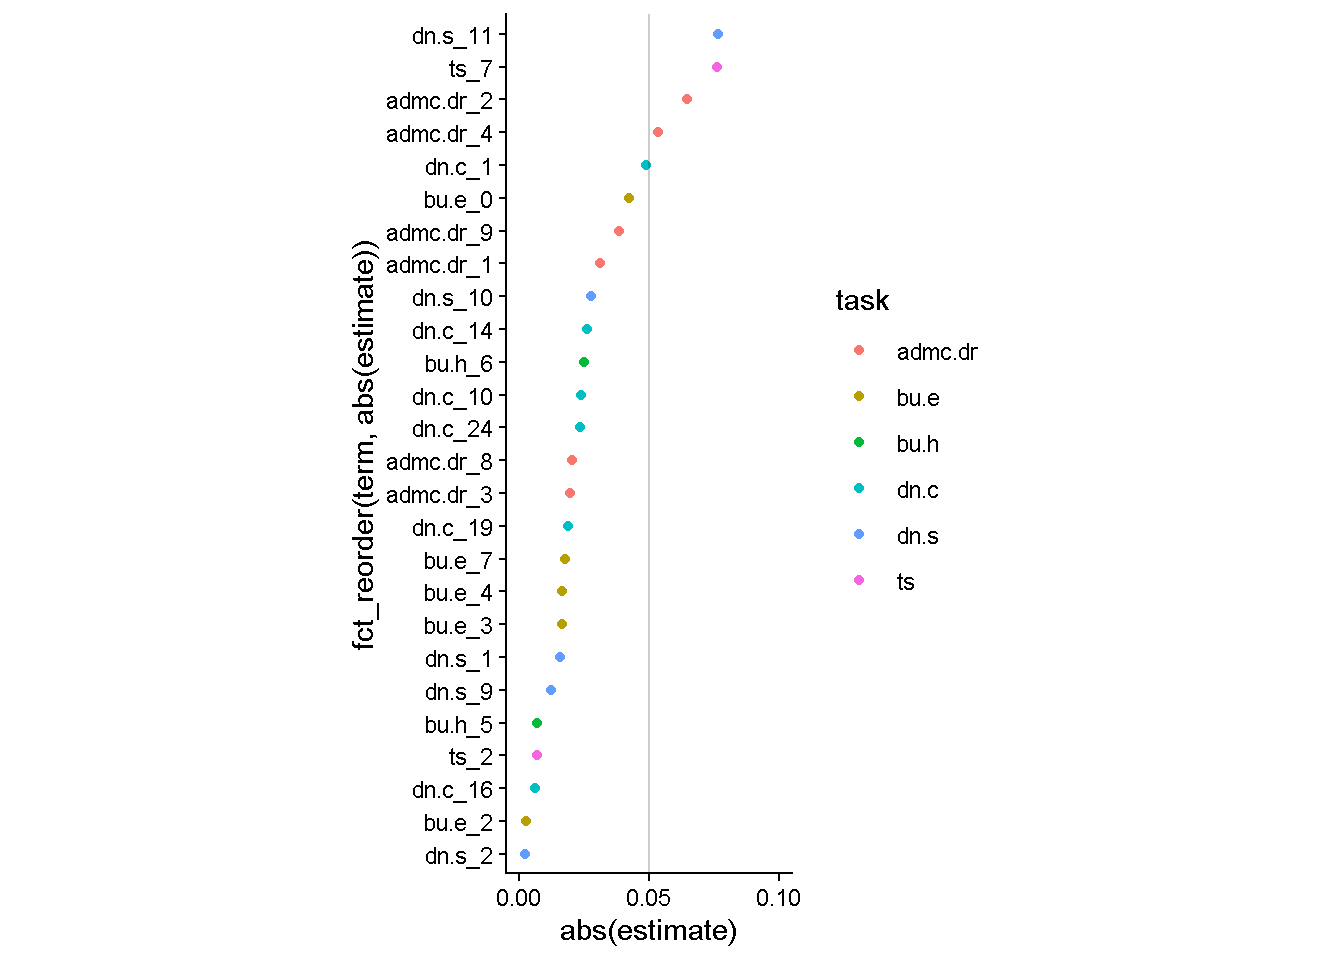
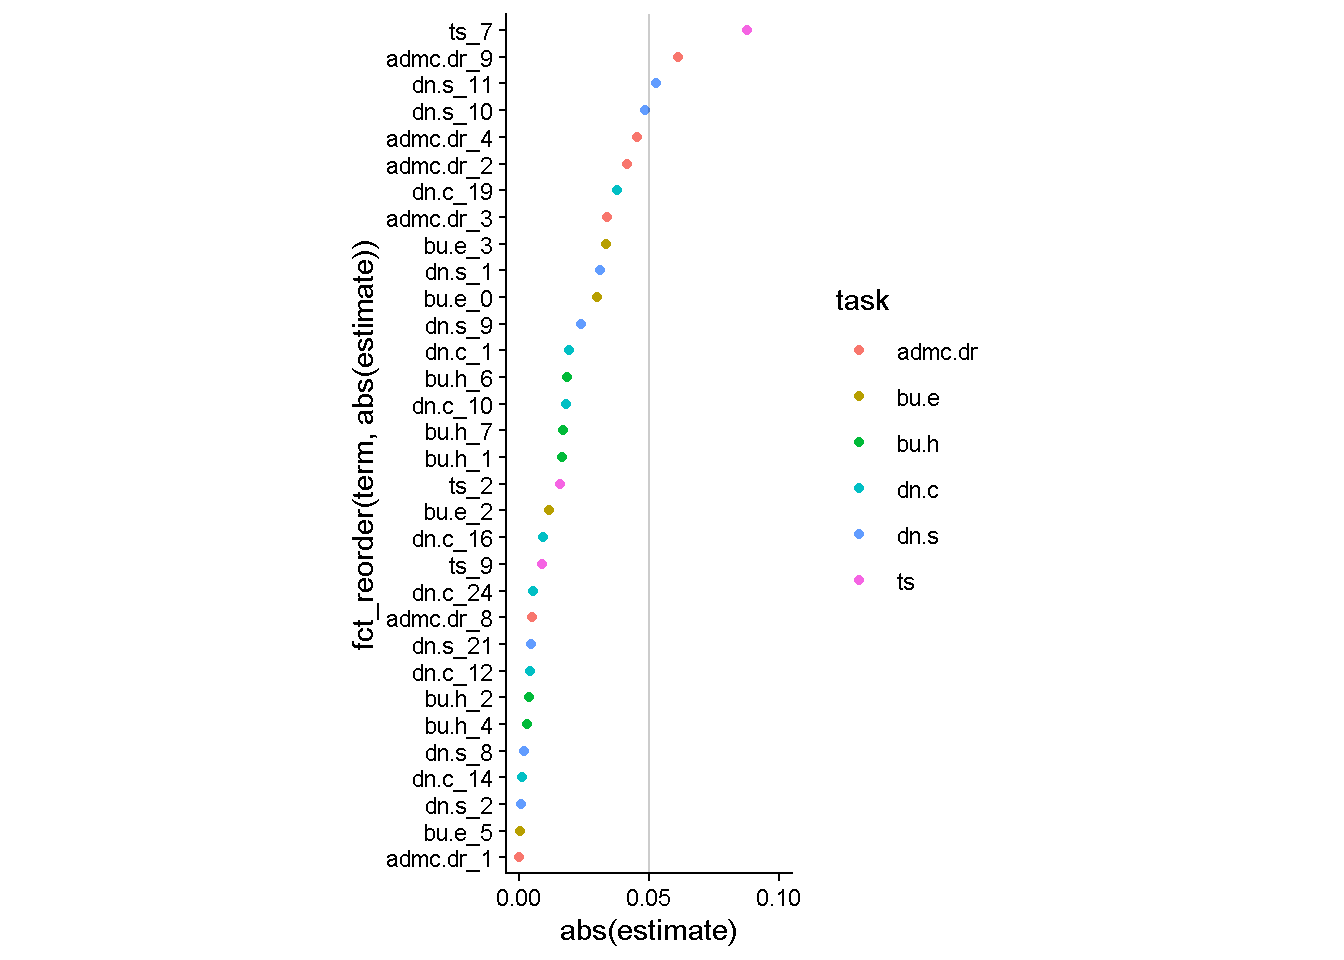
Add LASSO tuning

diff --git a/docs/Reports/lasso.html b/docs/Reports/lasso.html
@@ -7,7 +7,7 @@
 <meta name="viewport" content="width=device-width, initial-scale=1.0, user-scalable=yes">
 
 <meta name="author" content="Jessica Helmer">
-<meta name="dcterms.date" content="2026-02-28">
+<meta name="dcterms.date" content="2026-03-02">
 
 <title>LASSO Regression – Cognitive Task Modeling</title>
 <style>
@@ -242,7 +242,7 @@ pre > code.sourceCode > span > a:first-child::before { text-decoration: underlin
     <div>
     <div class="quarto-title-meta-heading">Published</div>
     <div class="quarto-title-meta-contents">
-      <p class="date">February 28, 2026</p>
+      <p class="date">March 2, 2026</p>
     </div>
   </div>
   
@@ -385,20 +385,20 @@ Attaching package: 'Matrix'</code></pre>
 <div class="sourceCode cell-code" id="cb15"><pre class="sourceCode r code-with-copy"><code class="sourceCode r"><span id="cb15-1"><a href="#cb15-1" aria-hidden="true" tabindex="-1"></a>lasso_estimates <span class="sc">|&gt;</span> <span class="fu">filter</span>(estimate <span class="sc">!=</span> <span class="dv">0</span> <span class="sc">&amp;</span> term <span class="sc">!=</span> <span class="st">"(Intercept)"</span>)</span></code><button title="Copy to Clipboard" class="code-copy-button"><i class="bi"></i></button></pre></div>
 </details>
 <div class="cell-output cell-output-stdout">
-<pre><code># A tibble: 26 × 3
-   term      estimate penalty
-   &lt;chr&gt;        &lt;dbl&gt;   &lt;dbl&gt;
- 1 dn.c_1    -0.0486      0.1
- 2 dn.c_16   -0.00607     0.1
- 3 dn.c_19   -0.0189      0.1
- 4 dn.c_10   -0.0236      0.1
- 5 dn.c_24   -0.0234      0.1
- 6 dn.c_14   -0.0263      0.1
- 7 bu.h_5     0.00702     0.1
- 8 bu.h_6     0.0248      0.1
- 9 admc.dr_1 -0.0309      0.1
-10 admc.dr_2 -0.0644      0.1
-# ℹ 16 more rows</code></pre>
+<pre><code># A tibble: 32 × 3
+   term    estimate penalty
+   &lt;chr&gt;      &lt;dbl&gt;   &lt;dbl&gt;
+ 1 dn.c_12 -0.00424     0.1
+ 2 dn.c_1  -0.0192      0.1
+ 3 dn.c_16 -0.00912     0.1
+ 4 dn.c_19 -0.0375      0.1
+ 5 dn.c_10 -0.0180      0.1
+ 6 dn.c_24 -0.00555     0.1
+ 7 dn.c_14 -0.00118     0.1
+ 8 bu.h_1   0.0164      0.1
+ 9 bu.h_2   0.00367     0.1
+10 bu.h_4   0.00305     0.1
+# ℹ 22 more rows</code></pre>
 </div>
 </div>
 <div class="cell">
@@ -440,7 +440,144 @@ Attaching package: 'Matrix'</code></pre>
 <pre><code># A tibble: 1 × 1
    time
   &lt;dbl&gt;
-1  18.0</code></pre>
+1  19.4</code></pre>
+</div>
+</div>
+<p>Trying some tuning</p>
+<div class="cell">
+<details class="code-fold">
+<summary>Code</summary>
+<div class="sourceCode cell-code" id="cb20"><pre class="sourceCode r code-with-copy"><code class="sourceCode r"><span id="cb20-1"><a href="#cb20-1" aria-hidden="true" tabindex="-1"></a>tune_spec <span class="ot">&lt;-</span> <span class="fu">linear_reg</span>(<span class="at">penalty =</span> <span class="fu">tune</span>(), <span class="at">mixture =</span> <span class="dv">1</span>) <span class="sc">%&gt;%</span></span>
+<span id="cb20-2"><a href="#cb20-2" aria-hidden="true" tabindex="-1"></a>  <span class="fu">set_engine</span>(<span class="st">"glmnet"</span>)</span></code><button title="Copy to Clipboard" class="code-copy-button"><i class="bi"></i></button></pre></div>
+</details>
+</div>
+<div class="cell">
+<details class="code-fold">
+<summary>Code</summary>
+<div class="sourceCode cell-code" id="cb21"><pre class="sourceCode r code-with-copy"><code class="sourceCode r"><span id="cb21-1"><a href="#cb21-1" aria-hidden="true" tabindex="-1"></a><span class="fu">set.seed</span>(<span class="dv">1234</span>)</span>
+<span id="cb21-2"><a href="#cb21-2" aria-hidden="true" tabindex="-1"></a>v5_dat_boot <span class="ot">&lt;-</span> <span class="fu">bootstraps</span>(v5_dat_train)</span>
+<span id="cb21-3"><a href="#cb21-3" aria-hidden="true" tabindex="-1"></a></span>
+<span id="cb21-4"><a href="#cb21-4" aria-hidden="true" tabindex="-1"></a>lambda_grid <span class="ot">&lt;-</span> <span class="fu">grid_regular</span>(<span class="fu">penalty</span>(), <span class="at">levels =</span> <span class="dv">50</span>)</span>
+<span id="cb21-5"><a href="#cb21-5" aria-hidden="true" tabindex="-1"></a></span>
+<span id="cb21-6"><a href="#cb21-6" aria-hidden="true" tabindex="-1"></a>doParallel<span class="sc">::</span><span class="fu">registerDoParallel</span>()</span>
+<span id="cb21-7"><a href="#cb21-7" aria-hidden="true" tabindex="-1"></a></span>
+<span id="cb21-8"><a href="#cb21-8" aria-hidden="true" tabindex="-1"></a><span class="fu">set.seed</span>(<span class="dv">2020</span>)</span>
+<span id="cb21-9"><a href="#cb21-9" aria-hidden="true" tabindex="-1"></a>lasso_grid <span class="ot">&lt;-</span> <span class="fu">tune_grid</span>(</span>
+<span id="cb21-10"><a href="#cb21-10" aria-hidden="true" tabindex="-1"></a>  wf <span class="sc">%&gt;%</span> <span class="fu">add_model</span>(tune_spec),</span>
+<span id="cb21-11"><a href="#cb21-11" aria-hidden="true" tabindex="-1"></a>  <span class="at">resamples =</span> v5_dat_boot,</span>
+<span id="cb21-12"><a href="#cb21-12" aria-hidden="true" tabindex="-1"></a>  <span class="at">grid =</span> lambda_grid</span>
+<span id="cb21-13"><a href="#cb21-13" aria-hidden="true" tabindex="-1"></a>)</span>
+<span id="cb21-14"><a href="#cb21-14" aria-hidden="true" tabindex="-1"></a></span>
+<span id="cb21-15"><a href="#cb21-15" aria-hidden="true" tabindex="-1"></a><span class="fu">saveRDS</span>(lasso_grid, here<span class="sc">::</span><span class="fu">here</span>(<span class="st">"Data"</span>, <span class="st">"lasso-estimates_tuning.rds"</span>))</span></code><button title="Copy to Clipboard" class="code-copy-button"><i class="bi"></i></button></pre></div>
+</details>
+</div>
+<div class="cell">
+<details class="code-fold">
+<summary>Code</summary>
+<div class="sourceCode cell-code" id="cb22"><pre class="sourceCode r code-with-copy"><code class="sourceCode r"><span id="cb22-1"><a href="#cb22-1" aria-hidden="true" tabindex="-1"></a>lasso_grid <span class="ot">&lt;-</span> <span class="fu">readRDS</span>(here<span class="sc">::</span><span class="fu">here</span>(<span class="st">"Data"</span>, <span class="st">"lasso-estimates_tuning.rds"</span>))</span>
+<span id="cb22-2"><a href="#cb22-2" aria-hidden="true" tabindex="-1"></a></span>
+<span id="cb22-3"><a href="#cb22-3" aria-hidden="true" tabindex="-1"></a>lasso_grid <span class="sc">%&gt;%</span></span>
+<span id="cb22-4"><a href="#cb22-4" aria-hidden="true" tabindex="-1"></a>  <span class="fu">collect_metrics</span>() <span class="sc">%&gt;%</span></span>
+<span id="cb22-5"><a href="#cb22-5" aria-hidden="true" tabindex="-1"></a>  <span class="fu">ggplot</span>(<span class="fu">aes</span>(penalty, mean, <span class="at">color =</span> .metric)) <span class="sc">+</span></span>
+<span id="cb22-6"><a href="#cb22-6" aria-hidden="true" tabindex="-1"></a>  <span class="fu">geom_errorbar</span>(<span class="fu">aes</span>(</span>
+<span id="cb22-7"><a href="#cb22-7" aria-hidden="true" tabindex="-1"></a>    <span class="at">ymin =</span> mean <span class="sc">-</span> std_err,</span>
+<span id="cb22-8"><a href="#cb22-8" aria-hidden="true" tabindex="-1"></a>    <span class="at">ymax =</span> mean <span class="sc">+</span> std_err</span>
+<span id="cb22-9"><a href="#cb22-9" aria-hidden="true" tabindex="-1"></a>  ),</span>
+<span id="cb22-10"><a href="#cb22-10" aria-hidden="true" tabindex="-1"></a>  <span class="at">alpha =</span> <span class="fl">0.5</span></span>
+<span id="cb22-11"><a href="#cb22-11" aria-hidden="true" tabindex="-1"></a>  ) <span class="sc">+</span></span>
+<span id="cb22-12"><a href="#cb22-12" aria-hidden="true" tabindex="-1"></a>  <span class="fu">geom_line</span>(<span class="at">linewidth =</span> <span class="fl">1.5</span>) <span class="sc">+</span></span>
+<span id="cb22-13"><a href="#cb22-13" aria-hidden="true" tabindex="-1"></a>  <span class="fu">facet_wrap</span>(<span class="sc">~</span>.metric, <span class="at">scales =</span> <span class="st">"free"</span>, <span class="at">nrow =</span> <span class="dv">2</span>) <span class="sc">+</span></span>
+<span id="cb22-14"><a href="#cb22-14" aria-hidden="true" tabindex="-1"></a>  <span class="fu">scale_x_log10</span>() <span class="sc">+</span></span>
+<span id="cb22-15"><a href="#cb22-15" aria-hidden="true" tabindex="-1"></a>  <span class="fu">theme</span>(<span class="at">legend.position =</span> <span class="st">"none"</span>)</span></code><button title="Copy to Clipboard" class="code-copy-button"><i class="bi"></i></button></pre></div>
+</details>
+<div class="cell-output cell-output-stderr">
+<pre><code>Warning: Removed 2 rows containing missing values or values outside the scale range
+(`geom_line()`).</code></pre>
+</div>
+<div class="cell-output-display">
+<div>
+<figure class="figure">
+<p><img src="lasso_files/figure-html/unnamed-chunk-10-1.png" class="img-fluid figure-img" width="672"></p>
+</figure>
+</div>
+</div>
+</div>
+<div class="cell">
+<details class="code-fold">
+<summary>Code</summary>
+<div class="sourceCode cell-code" id="cb24"><pre class="sourceCode r code-with-copy"><code class="sourceCode r"><span id="cb24-1"><a href="#cb24-1" aria-hidden="true" tabindex="-1"></a>lowest_rmse <span class="ot">&lt;-</span> lasso_grid <span class="sc">%&gt;%</span></span>
+<span id="cb24-2"><a href="#cb24-2" aria-hidden="true" tabindex="-1"></a>  <span class="fu">select_best</span>(<span class="at">metric =</span> <span class="st">"rmse"</span>)</span>
+<span id="cb24-3"><a href="#cb24-3" aria-hidden="true" tabindex="-1"></a></span>
+<span id="cb24-4"><a href="#cb24-4" aria-hidden="true" tabindex="-1"></a>final_lasso <span class="ot">&lt;-</span> <span class="fu">finalize_workflow</span>(</span>
+<span id="cb24-5"><a href="#cb24-5" aria-hidden="true" tabindex="-1"></a>  wf <span class="sc">%&gt;%</span> <span class="fu">add_model</span>(tune_spec),</span>
+<span id="cb24-6"><a href="#cb24-6" aria-hidden="true" tabindex="-1"></a>  lowest_rmse</span>
+<span id="cb24-7"><a href="#cb24-7" aria-hidden="true" tabindex="-1"></a>)</span></code><button title="Copy to Clipboard" class="code-copy-button"><i class="bi"></i></button></pre></div>
+</details>
+</div>
+<div class="cell">
+<details class="code-fold">
+<summary>Code</summary>
+<div class="sourceCode cell-code" id="cb25"><pre class="sourceCode r code-with-copy"><code class="sourceCode r"><span id="cb25-1"><a href="#cb25-1" aria-hidden="true" tabindex="-1"></a><span class="fu">library</span>(vip)</span></code><button title="Copy to Clipboard" class="code-copy-button"><i class="bi"></i></button></pre></div>
+</details>
+<div class="cell-output cell-output-stderr">
+<pre><code>
+Attaching package: 'vip'</code></pre>
+</div>
+<div class="cell-output cell-output-stderr">
+<pre><code>The following object is masked from 'package:utils':
+
+    vi</code></pre>
+</div>
+<details class="code-fold">
+<summary>Code</summary>
+<div class="sourceCode cell-code" id="cb28"><pre class="sourceCode r code-with-copy"><code class="sourceCode r"><span id="cb28-1"><a href="#cb28-1" aria-hidden="true" tabindex="-1"></a>final_lasso <span class="sc">%&gt;%</span></span>
+<span id="cb28-2"><a href="#cb28-2" aria-hidden="true" tabindex="-1"></a>  <span class="fu">fit</span>(v5_dat_train) <span class="sc">%&gt;%</span></span>
+<span id="cb28-3"><a href="#cb28-3" aria-hidden="true" tabindex="-1"></a>  <span class="fu">extract_fit_parsnip</span>() <span class="sc">%&gt;%</span></span>
+<span id="cb28-4"><a href="#cb28-4" aria-hidden="true" tabindex="-1"></a>  <span class="fu">vi</span>(<span class="at">lambda =</span> lowest_rmse<span class="sc">$</span>penalty) <span class="sc">%&gt;%</span></span>
+<span id="cb28-5"><a href="#cb28-5" aria-hidden="true" tabindex="-1"></a>  <span class="fu">filter</span>(Importance <span class="sc">!=</span> <span class="dv">0</span>) <span class="sc">|&gt;</span></span>
+<span id="cb28-6"><a href="#cb28-6" aria-hidden="true" tabindex="-1"></a>  <span class="fu">mutate</span>(<span class="at">task =</span> <span class="fu">str_split_i</span>(Variable, <span class="st">"_"</span>, <span class="dv">1</span>)) <span class="sc">|&gt;</span></span>
+<span id="cb28-7"><a href="#cb28-7" aria-hidden="true" tabindex="-1"></a>  <span class="fu">mutate</span>(</span>
+<span id="cb28-8"><a href="#cb28-8" aria-hidden="true" tabindex="-1"></a>    <span class="at">Importance =</span> <span class="fu">abs</span>(Importance),</span>
+<span id="cb28-9"><a href="#cb28-9" aria-hidden="true" tabindex="-1"></a>    <span class="at">Variable =</span> <span class="fu">fct_reorder</span>(Variable, Importance)</span>
+<span id="cb28-10"><a href="#cb28-10" aria-hidden="true" tabindex="-1"></a>  ) <span class="sc">%&gt;%</span></span>
+<span id="cb28-11"><a href="#cb28-11" aria-hidden="true" tabindex="-1"></a>  <span class="fu">ggplot</span>(<span class="fu">aes</span>(<span class="at">x =</span> Importance, <span class="at">y =</span> Variable, <span class="at">color =</span> task)) <span class="sc">+</span></span>
+<span id="cb28-12"><a href="#cb28-12" aria-hidden="true" tabindex="-1"></a>  <span class="fu">geom_point</span>() <span class="sc">+</span></span>
+<span id="cb28-13"><a href="#cb28-13" aria-hidden="true" tabindex="-1"></a>  <span class="fu">labs</span>(<span class="at">y =</span> <span class="cn">NULL</span>) <span class="sc">+</span></span>
+<span id="cb28-14"><a href="#cb28-14" aria-hidden="true" tabindex="-1"></a>  <span class="fu">annotate</span>(<span class="st">"segment"</span>, <span class="at">x =</span> <span class="fl">0.05</span>, <span class="at">y =</span> <span class="sc">-</span><span class="cn">Inf</span>, <span class="at">yend =</span> <span class="cn">Inf</span>, <span class="at">alpha =</span> <span class="fl">0.2</span>) <span class="sc">+</span></span>
+<span id="cb28-15"><a href="#cb28-15" aria-hidden="true" tabindex="-1"></a>  <span class="fu">scale_x_continuous</span>(<span class="at">breaks =</span> <span class="fu">c</span>(<span class="dv">0</span>, <span class="fl">0.05</span>, <span class="fl">0.1</span>)) <span class="sc">+</span></span>
+<span id="cb28-16"><a href="#cb28-16" aria-hidden="true" tabindex="-1"></a>  <span class="fu">coord_cartesian</span>(<span class="at">xlim =</span> <span class="fu">c</span>(<span class="dv">0</span>, <span class="fl">0.1</span>)) <span class="sc">+</span></span>
+<span id="cb28-17"><a href="#cb28-17" aria-hidden="true" tabindex="-1"></a>  <span class="fu">theme_classic</span>() <span class="sc">+</span></span>
+<span id="cb28-18"><a href="#cb28-18" aria-hidden="true" tabindex="-1"></a>  <span class="fu">theme</span>(<span class="at">aspect.ratio =</span> <span class="dv">3</span>)</span></code><button title="Copy to Clipboard" class="code-copy-button"><i class="bi"></i></button></pre></div>
+</details>
+<div class="cell-output-display">
+<div>
+<figure class="figure">
+<p><img src="lasso_files/figure-html/unnamed-chunk-12-1.png" class="img-fluid figure-img" width="672"></p>
+</figure>
+</div>
+</div>
+</div>
+<p>Time of tuned LASSO</p>
+<div class="cell">
+<details class="code-fold">
+<summary>Code</summary>
+<div class="sourceCode cell-code" id="cb29"><pre class="sourceCode r code-with-copy"><code class="sourceCode r"><span id="cb29-1"><a href="#cb29-1" aria-hidden="true" tabindex="-1"></a>final_lasso <span class="sc">%&gt;%</span></span>
+<span id="cb29-2"><a href="#cb29-2" aria-hidden="true" tabindex="-1"></a>  <span class="fu">fit</span>(v5_dat_train) <span class="sc">%&gt;%</span></span>
+<span id="cb29-3"><a href="#cb29-3" aria-hidden="true" tabindex="-1"></a>  <span class="fu">extract_fit_parsnip</span>() <span class="sc">|&gt;</span> </span>
+<span id="cb29-4"><a href="#cb29-4" aria-hidden="true" tabindex="-1"></a>  <span class="fu">tidy</span>() <span class="sc">|&gt;</span></span>
+<span id="cb29-5"><a href="#cb29-5" aria-hidden="true" tabindex="-1"></a>  <span class="fu">filter</span>(estimate <span class="sc">!=</span> <span class="dv">0</span> <span class="sc">&amp;</span> term <span class="sc">!=</span> <span class="st">"(Intercept)"</span>) <span class="sc">|&gt;</span></span>
+<span id="cb29-6"><a href="#cb29-6" aria-hidden="true" tabindex="-1"></a>  <span class="fu">mutate</span>(<span class="at">task =</span> <span class="fu">str_split_i</span>(term, <span class="st">"_"</span>, <span class="dv">1</span>)) <span class="sc">|&gt;</span></span>
+<span id="cb29-7"><a href="#cb29-7" aria-hidden="true" tabindex="-1"></a>  <span class="fu">inner_join</span>(v5_dat <span class="sc">|&gt;</span> <span class="fu">select</span>(item, time) <span class="sc">|&gt;</span> <span class="fu">unique</span>(),</span>
+<span id="cb29-8"><a href="#cb29-8" aria-hidden="true" tabindex="-1"></a>            <span class="fu">join_by</span>(<span class="st">"term"</span> <span class="sc">==</span> <span class="st">"item"</span>)) <span class="sc">|&gt;</span></span>
+<span id="cb29-9"><a href="#cb29-9" aria-hidden="true" tabindex="-1"></a>  <span class="fu">summarize</span>(<span class="at">.by =</span> task,</span>
+<span id="cb29-10"><a href="#cb29-10" aria-hidden="true" tabindex="-1"></a>            <span class="at">time =</span> <span class="fu">sum</span>(time) <span class="sc">+</span> <span class="fu">get_startup</span>(<span class="fu">first</span>(task))) <span class="sc">|&gt;</span></span>
+<span id="cb29-11"><a href="#cb29-11" aria-hidden="true" tabindex="-1"></a>  <span class="fu">summarize</span>(<span class="at">time =</span> <span class="fu">sum</span>(time))</span></code><button title="Copy to Clipboard" class="code-copy-button"><i class="bi"></i></button></pre></div>
+</details>
+<div class="cell-output cell-output-stdout">
+<pre><code># A tibble: 1 × 1
+   time
+  &lt;dbl&gt;
+1  22.4</code></pre>
 </div>
 </div>
 

diff --git a/docs/Reports/time-series_report.html b/docs/Reports/time-series_report.html
@@ -7,7 +7,7 @@
 <meta name="viewport" content="width=device-width, initial-scale=1.0, user-scalable=yes">
 
 <meta name="author" content="Jessica Helmer">
-<meta name="dcterms.date" content="2026-02-19">
+<meta name="dcterms.date" content="2026-03-01">
 
 <title>Time Series – Cognitive Task Modeling</title>
 <style>
@@ -243,7 +243,7 @@ pre > code.sourceCode > span > a:first-child::before { text-decoration: underlin
     <div>
     <div class="quarto-title-meta-heading">Published</div>
     <div class="quarto-title-meta-contents">
-      <p class="date">February 19, 2026</p>
+      <p class="date">March 1, 2026</p>
     </div>
   </div>
   
@@ -377,6 +377,21 @@ pre > code.sourceCode > span > a:first-child::before { text-decoration: underlin
 <div>
 <figure class="figure">
 <p><img src="time-series_report_files/figure-html/unnamed-chunk-5-2.png" class="img-fluid figure-img" width="672"></p>
+</figure>
+</div>
+</div>
+</div>
+<div class="cell">
+<details class="code-fold">
+<summary>Code</summary>
+<div class="sourceCode cell-code" id="cb7"><pre class="sourceCode r code-with-copy"><code class="sourceCode r"><span id="cb7-1"><a href="#cb7-1" aria-hidden="true" tabindex="-1"></a>ts_dat <span class="sc">|&gt;</span></span>
+<span id="cb7-2"><a href="#cb7-2" aria-hidden="true" tabindex="-1"></a>  <span class="fu">ggplot</span>(<span class="fu">aes</span>(<span class="at">x =</span> score)) <span class="sc">+</span></span>
+<span id="cb7-3"><a href="#cb7-3" aria-hidden="true" tabindex="-1"></a>  <span class="fu">geom_density</span>(<span class="at">na.rm =</span> T)</span></code><button title="Copy to Clipboard" class="code-copy-button"><i class="bi"></i></button></pre></div>
+</details>
+<div class="cell-output-display">
+<div>
+<figure class="figure">
+<p><img src="time-series_report_files/figure-html/unnamed-chunk-6-1.png" class="img-fluid figure-img" width="672"></p>
 </figure>
 </div>
 </div>
